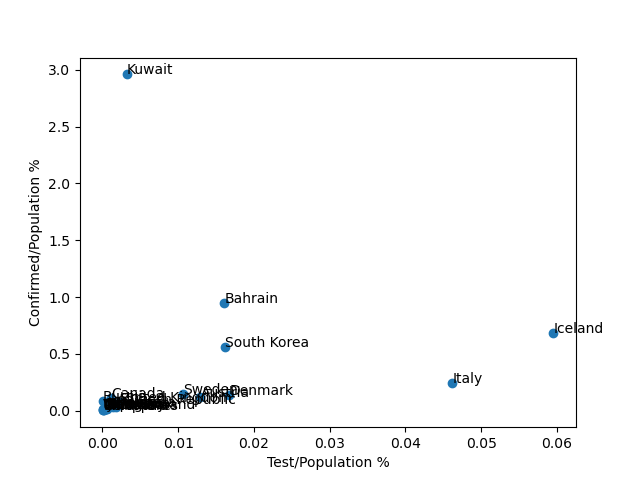
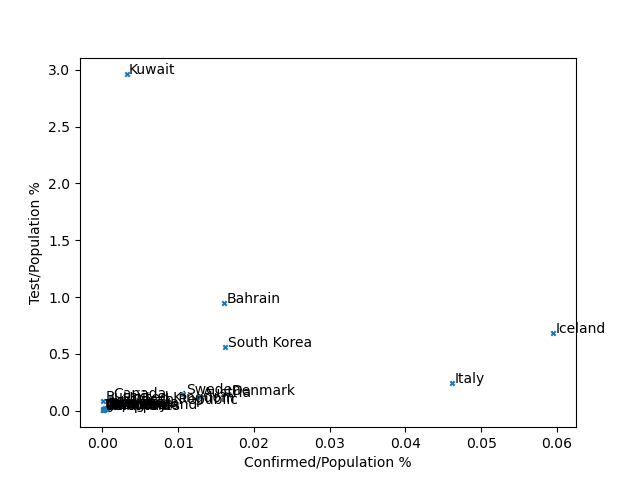
fix markers

diff --git a/main.py b/main.py
@@ -9,7 +9,9 @@ basedir = abspath(os.path.dirname(__file__))
 csv_files = join(basedir, 'csv_files')
 out_figs = join(basedir, 'out_figs')
 
+
 def percentage(part: float, tot: float) -> float:
+    assert part < tot
     return part * 100 / tot
 
 
@@ -37,15 +39,16 @@ if __name__ == "__main__":
     )
     res = md[['Entity', 'Test/Population', 'Confirmed/Population']].sort_values('Test/Population', ascending=False)
 
-    print(res.to_string())
+    print(res.to_string(index=False))
 
     x = res['Confirmed/Population'].to_numpy()
     y = res['Test/Population'].to_numpy()
     labels = res['Entity'].to_numpy()
     fig, ax = plt.subplots()
-    ax.set_xlabel('Test/Population %')
-    ax.set_ylabel('Confirmed/Population %')
-    ax.scatter(x, y)
+    ax.set_xlabel('Confirmed/Population %')
+    ax.set_ylabel('Test/Population %')
+    ax.scatter(x, y, s=10, marker='x')
+    txt_offset = 0.0003
     for i, txt in enumerate(labels):
-        ax.annotate(txt, xy=(x[i], y[i]))
+        ax.annotate(txt, xy=(x[i], y[i]), xytext=(x[i] + txt_offset, y[i] + txt_offset))
     fig.savefig(join(out_figs, 'Test-Confirmed-Population.png'))
